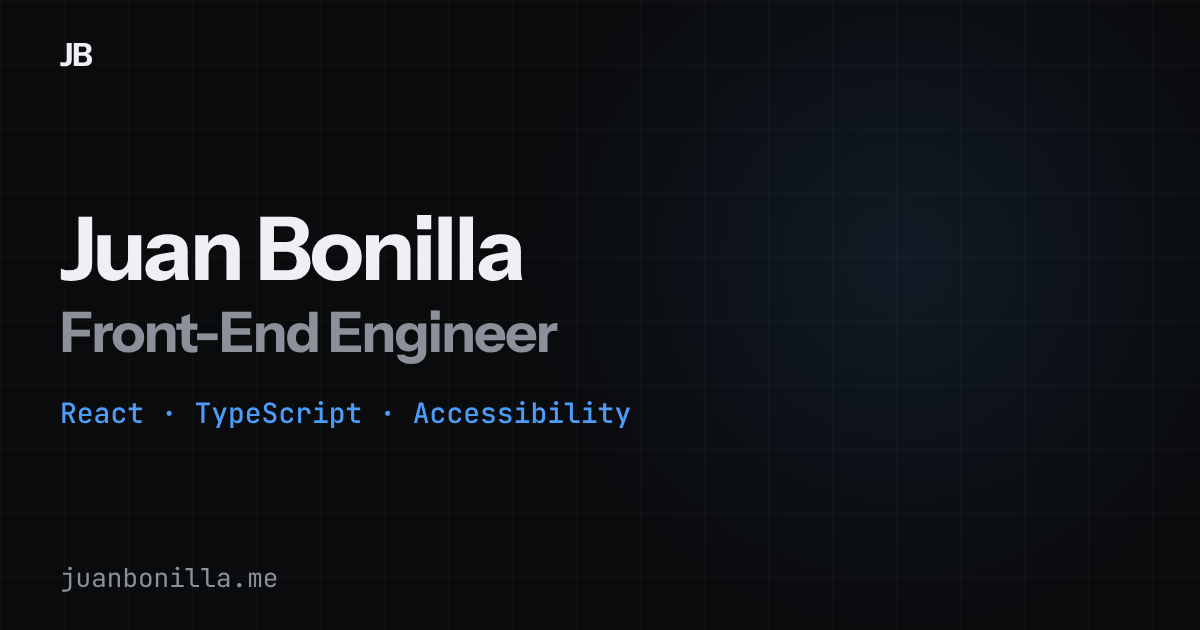
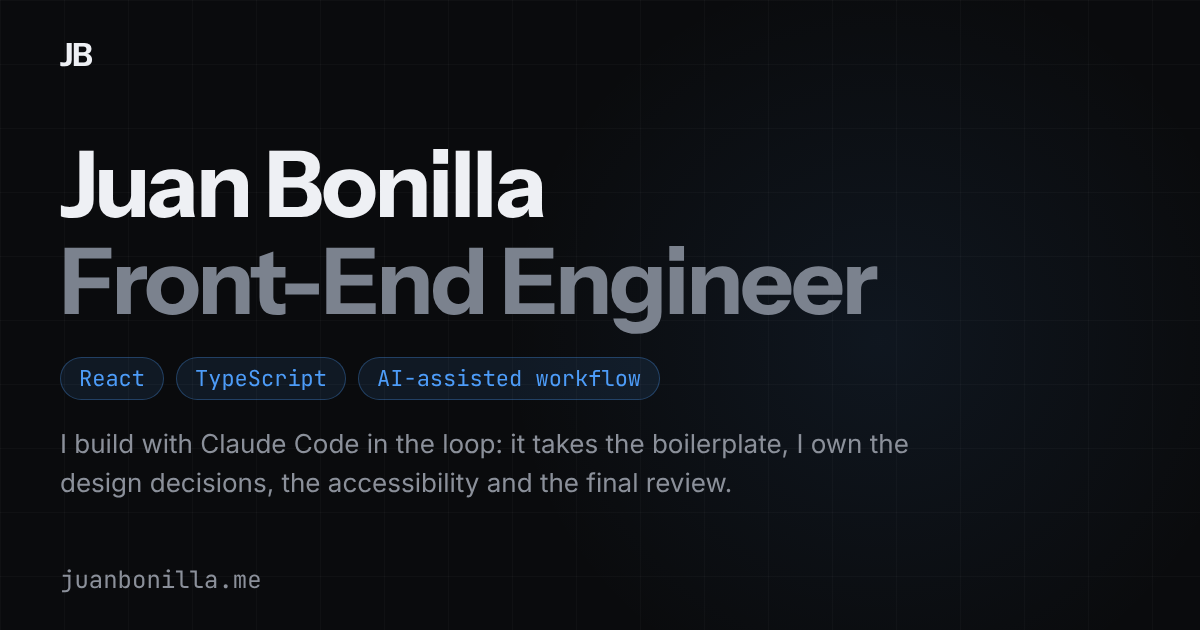
Match the OG image to the current hero
Per the owner's updated design: the role is now the second line of the
title at the same size (92px, textTertiary), the tags are the hero's
accent pills (React, TypeScript, AI-assisted workflow) and the hero's intro
copy runs below them (Inter 26px, textSecondary). The glow uses
accentFaint (8 %), like the hero. The render matches the owner's reference
to within 1px per text block.

Part of #28

Claude-Session: https://claude.ai/code/session_01SRuu33sDMFKNthFQk5RhFD

Changed region(s): [[0.0308, 0.2413, 0.7708, 0.7238], [0.0308, 0.754, 0.6167, 0.7841], [0.0308, 0.9048, 0.2467, 0.9349]]

diff --git a/scripts/og-image.html b/scripts/og-image.html
@@ -2,7 +2,8 @@
 <!--
   Open Graph card (1200×630), rendered to public/og-image.png by
   scripts/generate-og-image.mjs (`pnpm run og`). Re-run it when the name or
-  role copy changes. Colours mirror src/tokens.ts (token named next to each
+  role copy changes. It mirrors the hero (title, tags, intro copy) at card
+  size. Colours mirror src/tokens.ts (token named next to each
   value); fonts are the self-hosted subsets in public/fonts/, so the text may
   only use characters the site itself renders.
 -->
@@ -14,6 +15,12 @@
         font-family: "Instrument Sans";
         src: url("../public/fonts/instrument-sans.woff2") format("woff2");
         font-weight: 400 700;
+      }
+
+      @font-face {
+        font-family: "Inter";
+        src: url("../public/fonts/inter.woff2") format("woff2");
+        font-weight: 400 500;
       }
 
       @font-face {
@@ -55,14 +62,14 @@
       /* The hero's ambient glow (colors.accentFaint), scaled up for the card. */
       .glow {
         position: absolute;
-        top: -120px;
-        right: -80px;
+        top: -40px;
+        right: -60px;
         width: 760px;
         height: 760px;
         border-radius: 50%;
         background: radial-gradient(
           circle,
-          rgba(77, 156, 248, 0.1) 0%,
+          rgba(77, 156, 248, 0.08) 0%,
           transparent 70%
         );
       }
@@ -83,34 +90,55 @@
         letter-spacing: -0.02em;
       }
 
-      .name {
+      /* Same type as the hero title (typography.heroTitle), at card size. */
+      .title {
         font-weight: 700;
-        font-size: 88px;
+        font-size: 92px;
         line-height: 1.05;
         letter-spacing: -0.03em;
+      }
+
+      .title span {
+        display: block;
       }
 
       .role {
-        margin-top: 8px;
-        font-weight: 700;
-        font-size: 56px;
-        line-height: 1.05;
-        letter-spacing: -0.03em;
-        color: #8b909a; /* colors.textSecondary */
+        color: #7b828e; /* colors.textTertiary */
       }
 
-      .stack {
-        margin-top: 32px;
-        font-family: "JetBrains Mono", monospace;
-        font-weight: 500;
-        font-size: 28px;
+      /* The hero's tags (TagList, accent variant), at card size. */
+      .tags {
+        display: flex;
+        gap: 12px;
+        margin-top: 28px;
+        padding: 0;
+        list-style: none;
+      }
+
+      .tags li {
+        padding: 6px 18px;
+        border: 1px solid rgba(77, 156, 248, 0.3); /* colors.accentBorder */
+        border-radius: 999px; /* radius.full */
+        background-color: rgba(77, 156, 248, 0.1); /* colors.accentGlow */
         color: #4d9cf8; /* colors.accent */
+        font-family: "JetBrains Mono", monospace;
+        font-size: 22px;
+        line-height: 29px;
+      }
+
+      /* The hero's intro copy (typography.body), at card size. */
+      .intro {
+        max-width: 880px;
+        margin-top: 24px;
+        font-family: "Inter", sans-serif;
+        font-size: 26px;
+        line-height: 1.5;
+        color: #8b909a; /* colors.textSecondary */
       }
 
       .url {
         font-family: "JetBrains Mono", monospace;
-        font-weight: 400;
-        font-size: 26px;
+        font-size: 24px;
         color: #8b909a; /* colors.textSecondary */
       }
     </style>
@@ -121,9 +149,19 @@
     <div class="safe">
       <p class="monogram">JB</p>
       <div>
-        <h1 class="name">Juan Bonilla</h1>
-        <p class="role">Front-End Engineer</p>
-        <p class="stack">React · TypeScript · Accessibility</p>
+        <h1 class="title">
+          <span>Juan Bonilla</span>
+          <span class="role">Front-End Engineer</span>
+        </h1>
+        <ul class="tags">
+          <li>React</li>
+          <li>TypeScript</li>
+          <li>AI-assisted workflow</li>
+        </ul>
+        <p class="intro">
+          I build with Claude Code in the loop: it takes the boilerplate, I own
+          the design decisions, the accessibility and the final review.
+        </p>
       </div>
       <p class="url">juanbonilla.me</p>
     </div>
